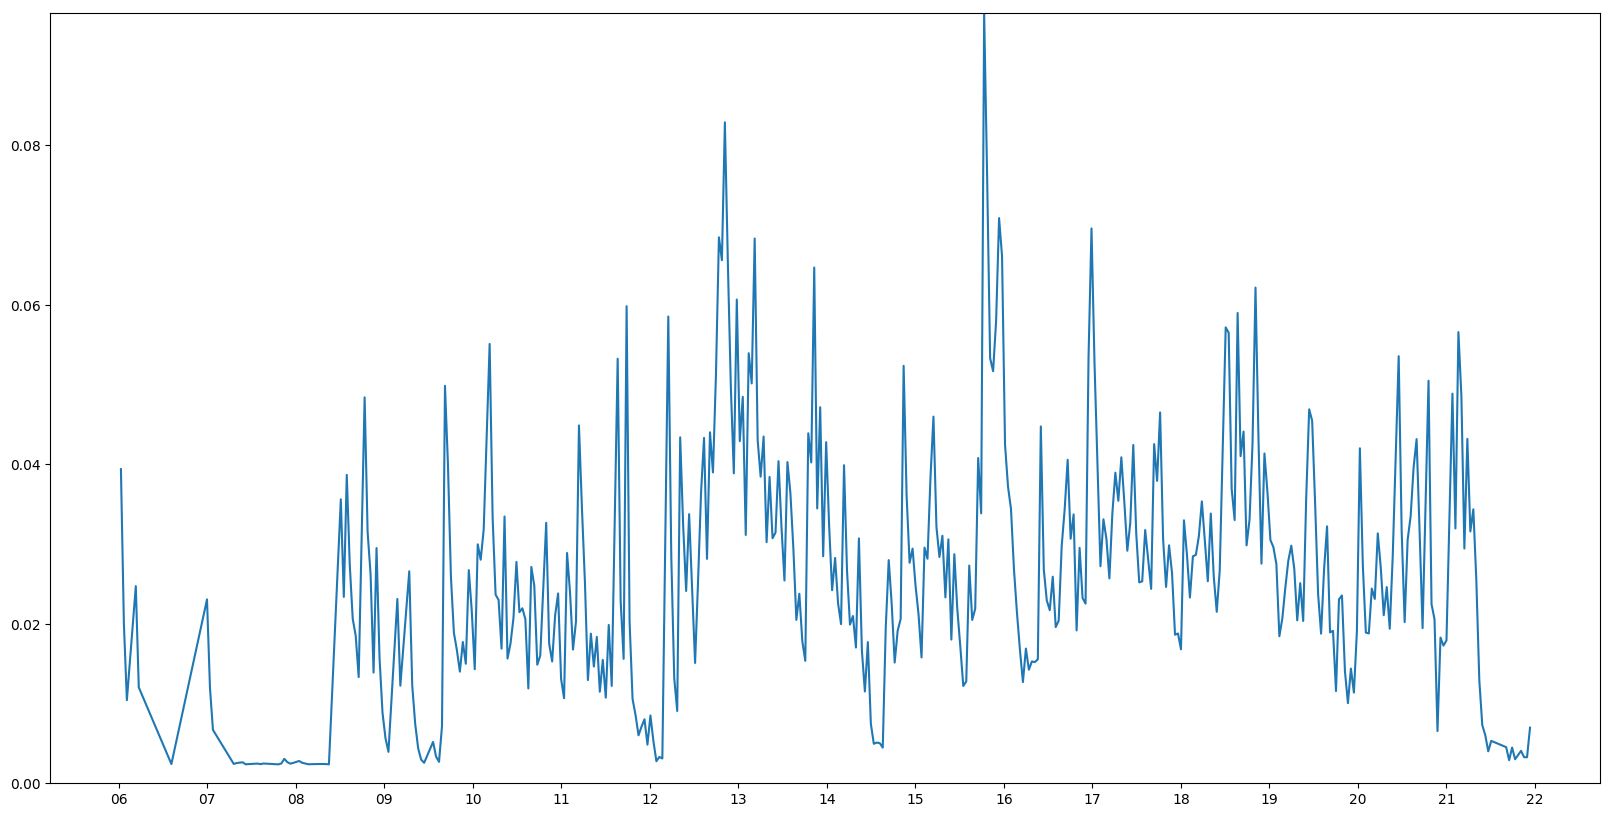
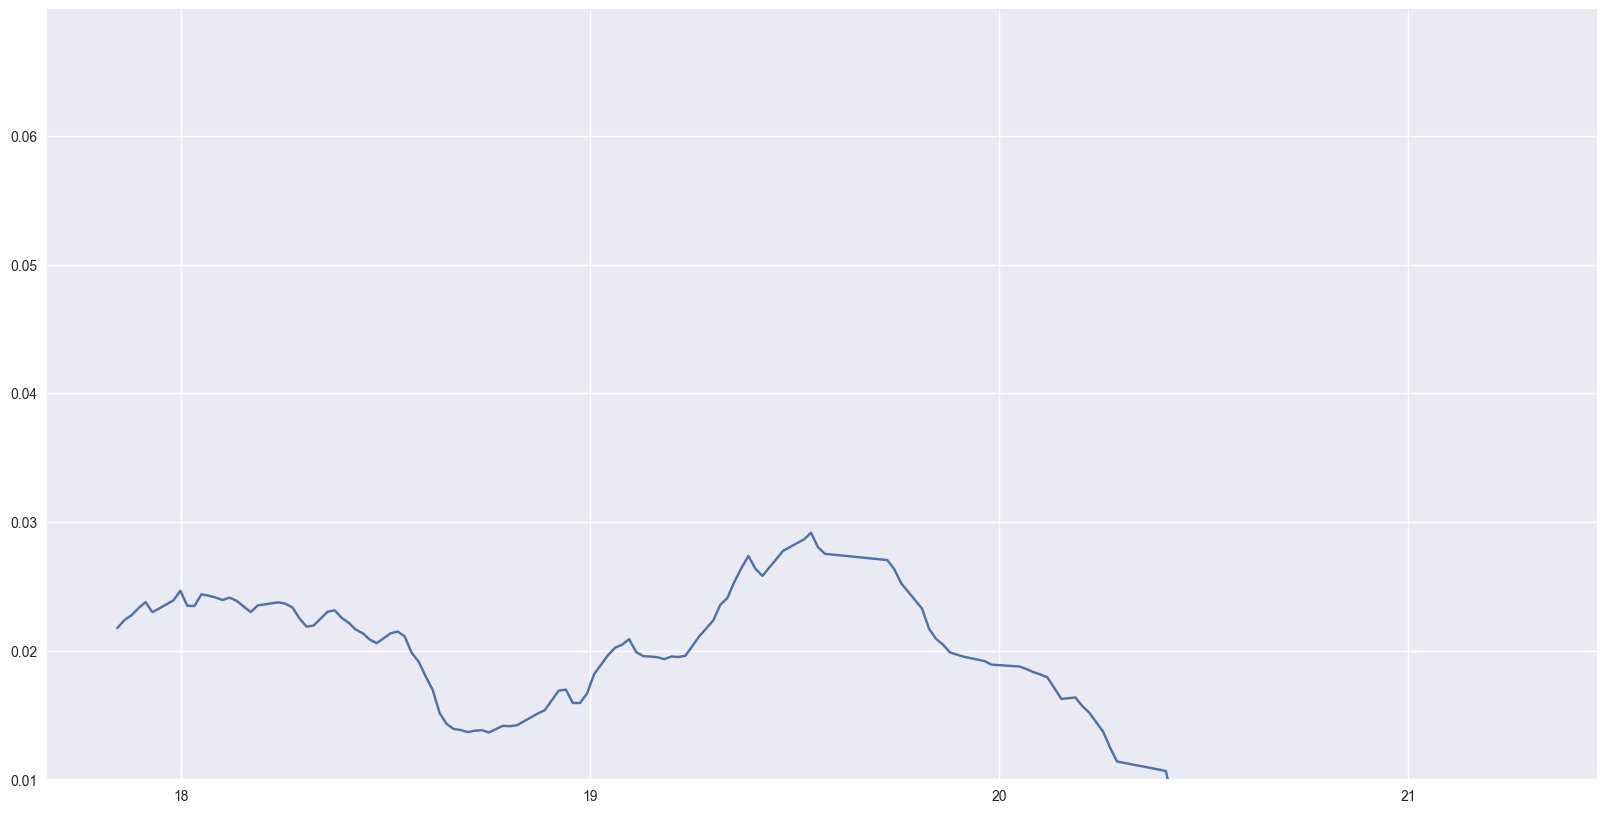
plot fixes and further page layout

diff --git a/public/index.html b/public/index.html
@@ -6,7 +6,9 @@
     <meta charset="utf-8">
   </head>
   <body>
-    <h1 class='title'>Gurula Motion</h1>
+    <h1 class='centertext '>Gurula Motion</h1>
+	
+	<p class='centertext'>This is...</p>
 
     <table class='plots'>
       <tr class='headers'>
@@ -14,18 +16,56 @@
         <th>Room 2</th>
       </tr>
       <tr class='lines'>
-        <td><img src='line_1.png'></td>
-        <td><img src='line_2.png'></td>
+        <td>
+			<p class='centertext'>Text</p>
+			<img src='line_1.png'>
+		</td>
+        <td>
+			<p class='centertext'>Text</p>
+			<img src='line_2.png'>
+		</td>
       </tr>
       <tr>
         <td class='overlay'>
+		  <p class='centertext'>Text</p>
           <img class='original' src='http://haba.tko-aly.fi/kuvat/webcam1.jpg'>
           <img class='heatmap' src='heatmap_0.png'>
         </td>
         <td class='overlay'>
+		  <p class='centertext'>Text</p>
           <img class='original' src='http://haba.tko-aly.fi/kuvat/webcam2.jpg'>
           <img class='heatmap' src='heatmap_1.png'>
         </td>
+      </tr>
+	  <tr class='activity_by_day'>
+		<td>
+			<p class='centertext'>Text</p>
+			<img src='activity_by_day_1.png'>
+		</td>
+        <td>
+			<p class='centertext'>Text</p>
+			<img src='activity_by_day_2.png'>
+		</td>
+      </tr>
+	  <tr class='activity_by_hour'>
+		<td>
+			<p class='centertext'>Text</p>
+			<img src='activity_by_hour_1.png'>
+		</td>
+        <td>
+			<p class='centertext'>Text</p>
+			<img src='activity_by_hour_2.png'>
+		</td>
+      </tr>
+	  <tr class='activity_trend'>
+		<td>
+			<p class='centertext'>Text</p>
+			<img src='activity_trend_1.png'>
+		</td>
+        <td>
+			<p class='centertext'>Text</p>
+			<img src='activity_trend_2.png'>
+		</td>
       </tr>
   </body>
 </html>

diff --git a/public/style.css b/public/style.css
@@ -1,4 +1,4 @@
-.title {
+.centertext {
   text-align: center;
 }
 
@@ -25,5 +25,5 @@ td {
 }
 
 img {
-  max-width: 100%;
+  width: 100%;
 }

diff --git a/motionprocess.py b/motionprocess.py
@@ -32,6 +32,7 @@ def normalize(data):
     df['day'] = pd.Series(np.ones(df.__len__()), index=df.index)
     df['hour'] = pd.Series(np.ones(df.__len__()), index=df.index)
     df['minute'] = pd.Series(np.ones(df.__len__()), index=df.index)
+    df['weekday'] = pd.Series(np.ones(df.__len__()), index=df.index)
     df['createdAt2'] = pd.to_datetime(df['createdAt'])
     df['createdAt'] = df['createdAt2']
 
@@ -51,6 +52,7 @@ def normalize(data):
         df.at[i, 'day'] = time.day
         df.at[i, 'hour'] = time.hour
         df.at[i, 'minute'] = time.minute
+        df.at[i, 'weekday'] = time.weekday()
 
         df.at[i, change_type] = float(df.at[i, change_type])  # Convert string values to float
     return df
@@ -70,7 +72,7 @@ def filter_last_hours(df, hours):
     df = df.loc[df['createdAt'] > minTime]
     return df
 
-def line_plot(df, change_type, image_name):
+def line_plot(df, change_type, image_name, y_height):
 
     mean = df[change_type].rolling(30).mean()
     change_type = 'mean'
@@ -78,14 +80,53 @@ def line_plot(df, change_type, image_name):
     formatter = dates.DateFormatter('%H')
 
     # Set y axis height
-    y_height = mean.max()
+    #y_height = mean.max()
     plt.figure(figsize=(20,10))
     plt.gca().xaxis.set_major_formatter(formatter)
     plt.gca().xaxis.set_major_locator(locator)
-    plt.ylim((0,y_height))
+    plt.ylim((0.01,y_height))
     plt.plot(df['createdAt'],mean)
     plt.savefig(os.path.join(folder, image_name), bbox_inches='tight')
 
+def bar_plot_weekday(df, change_type, image_name):
+    grouped_by_column = 'weekday'
+    df = df[[change_type, grouped_by_column]]
+    grouped_df = df.groupby(grouped_by_column)
+    mean_df = grouped_df.sum() / grouped_df.count()
+
+    plt.figure(figsize=(20, 10))
+    fig = mean_df.plot(kind='bar', colormap='jet', title='Average activity by ' + grouped_by_column, legend=None)
+    fig.set_xlabel(grouped_by_column)
+    fig.set_ylabel("Activity")
+    plt.ylim(0.01, 0.05)
+    plt.xticks([0.0, 1.0, 2.0, 3.0, 4.0, 5.0, 6.0], ['Monday','Tuesday','Wednesday','Thursday','Friday','Saturday','Sunday'])
+    plt.savefig(os.path.join(folder, image_name), bbox_inches='tight')
+
+def bar_plot_int(df, change_type, grouped_by_column, image_name):
+    df = df[[change_type, grouped_by_column]]
+    df['grouped'] = df[grouped_by_column].astype(int)
+    grouped_df = df[[change_type, 'grouped']].groupby('grouped')
+    mean_df = grouped_df.sum() / grouped_df.count()
+
+    plt.figure(figsize=(20, 10))
+    fig = mean_df.plot(kind='bar', colormap='jet', title='Average activity by ' + grouped_by_column, legend=None)
+    fig.set_xlabel(grouped_by_column)
+    fig.set_ylabel("Activity")
+    plt.ylim(0.01, 0.05)
+    plt.savefig(os.path.join(folder, image_name), bbox_inches='tight')
+
+def activity_trend(df, change_type, image_name, y_height):
+    df = df[['rel_change', 'hour']]
+    grouped_df = df.groupby('hour')
+    mean_df = grouped_df.sum() / grouped_df.count()
+
+    plt.figure(figsize=(20, 10))
+    fig = sns.regplot(df.hour, df.rel_change, lowess=True, color='g')
+    fig.axes.set_title('Activity trend line', fontsize=30, color="r", alpha=0.5)
+    fig.set_xlabel("Hours")
+    fig.set_ylabel("Activity")
+    plt.ylim(0.01, y_height)
+    plt.savefig(os.path.join(folder, image_name), bbox_inches='tight')
 
 if __name__ == "__main__":
 
@@ -99,8 +140,6 @@ if __name__ == "__main__":
         hour_min = minTime.hour
         hour_max = now.hour
         change_type = 'rel_change'
-        plot_type = 'Line'
-        image_name = 'line'
     else:
         year = int(sys.argv[1])
         month = int(sys.argv[2])
@@ -113,44 +152,32 @@ if __name__ == "__main__":
 
     data = get_data()
 
-    df = normalize(data)
+    normalized = normalize(data)
+
+    y_height = normalized[change_type].rolling(30).mean().max()
+
+    normalized_first = normalized.loc[normalized['location'] == '0']
+    normalized_second = normalized.loc[normalized['location'] == '1']
     #
     # df = filter(df, year, month, day, hour_min, hour_max)
-    df = filter_last_hours(df, 8)
+    first = filter_last_hours(normalized_first, 8)
+    second = filter_last_hours(normalized_second, 8)
 
-    # Separate images
-    first = df.loc[df['location'] == '0']
-    second = df.loc[df['location'] == '1']
-
-    if plot_type == 'Line':
-        line_plot(first, change_type, image_name + '_1.png')
-        plt.figure(2)
-        line_plot(second, change_type, image_name + '_2.png')
-    if plot_type == 'Bar':
-        second = pd.DataFrame(first[change_type].astype(float))
-        second['day'] = first['day']
-        hour_bars = second.groupby(second['day'])['rel_change'].mean()
-        hour_bars.plot.bar()
-        plt.savefig(image_name, bbox_inches='tight')
-
-    df = normalize(data)
-    df=df[['rel_change','hour']]
-    grouped_df = df.groupby('hour')
-    mean_df = grouped_df.sum()/ grouped_df.count()
-  
     plt.figure(figsize=(20, 10))
-    fig= sns.regplot(df.hour, df.rel_change, lowess=True, color='g')
-    fig.axes.set_title('Activity trend line', fontsize=30,color="r",alpha=0.5)
-    fig.set_xlabel("Hours")
-    fig.set_ylabel("Activity")
-    plt.savefig(os.path.join(folder, 'activity_trend.png'), bbox_inches='tight')
-   
-    plt.figure(figsize=(5, 5))
-    fig=mean_df.plot(kind='bar', colormap='jet', title='Average activity by hour')
-    fig.set_xlabel("Hours")
-    fig.set_ylabel("Activity")
-    plt.savefig('Activity.png', bbox_inches='tight')
-    plt.savefig(os.path.join(folder, 'activity.png'), bbox_inches='tight')
+    line_plot(first, change_type, 'line_1.png', y_height)
+    plt.figure(figsize=(20, 10))
+    line_plot(second, change_type, 'line_2.png', y_height)
+
+    bar_plot_int(normalized_first, change_type, 'hour', 'activity_by_hour_1')
+    bar_plot_int(normalized_second, change_type, 'hour', 'activity_by_hour_2')
+    bar_plot_weekday(normalized_first, change_type, 'activity_by_day_1')
+    bar_plot_weekday(normalized_second, change_type, 'activity_by_day_2')
+
+    y_height = normalized[change_type].max()
+
+    activity_trend(normalized_first, change_type, 'activity_trend_1', y_height)
+    activity_trend(normalized_second, change_type, 'activity_trend_2', y_height)
+
     #mean_df['rel_change'].plot(color = 'orange',linewidth=2.0)
     #plt.savefig(image_name, bbox_inches='tight')
     #mean_df['hour'] =[0,1,2,3,4,5,6,7,8,9,10,11,12,13,14,15,16,17,18,19,20,21,22,23]
